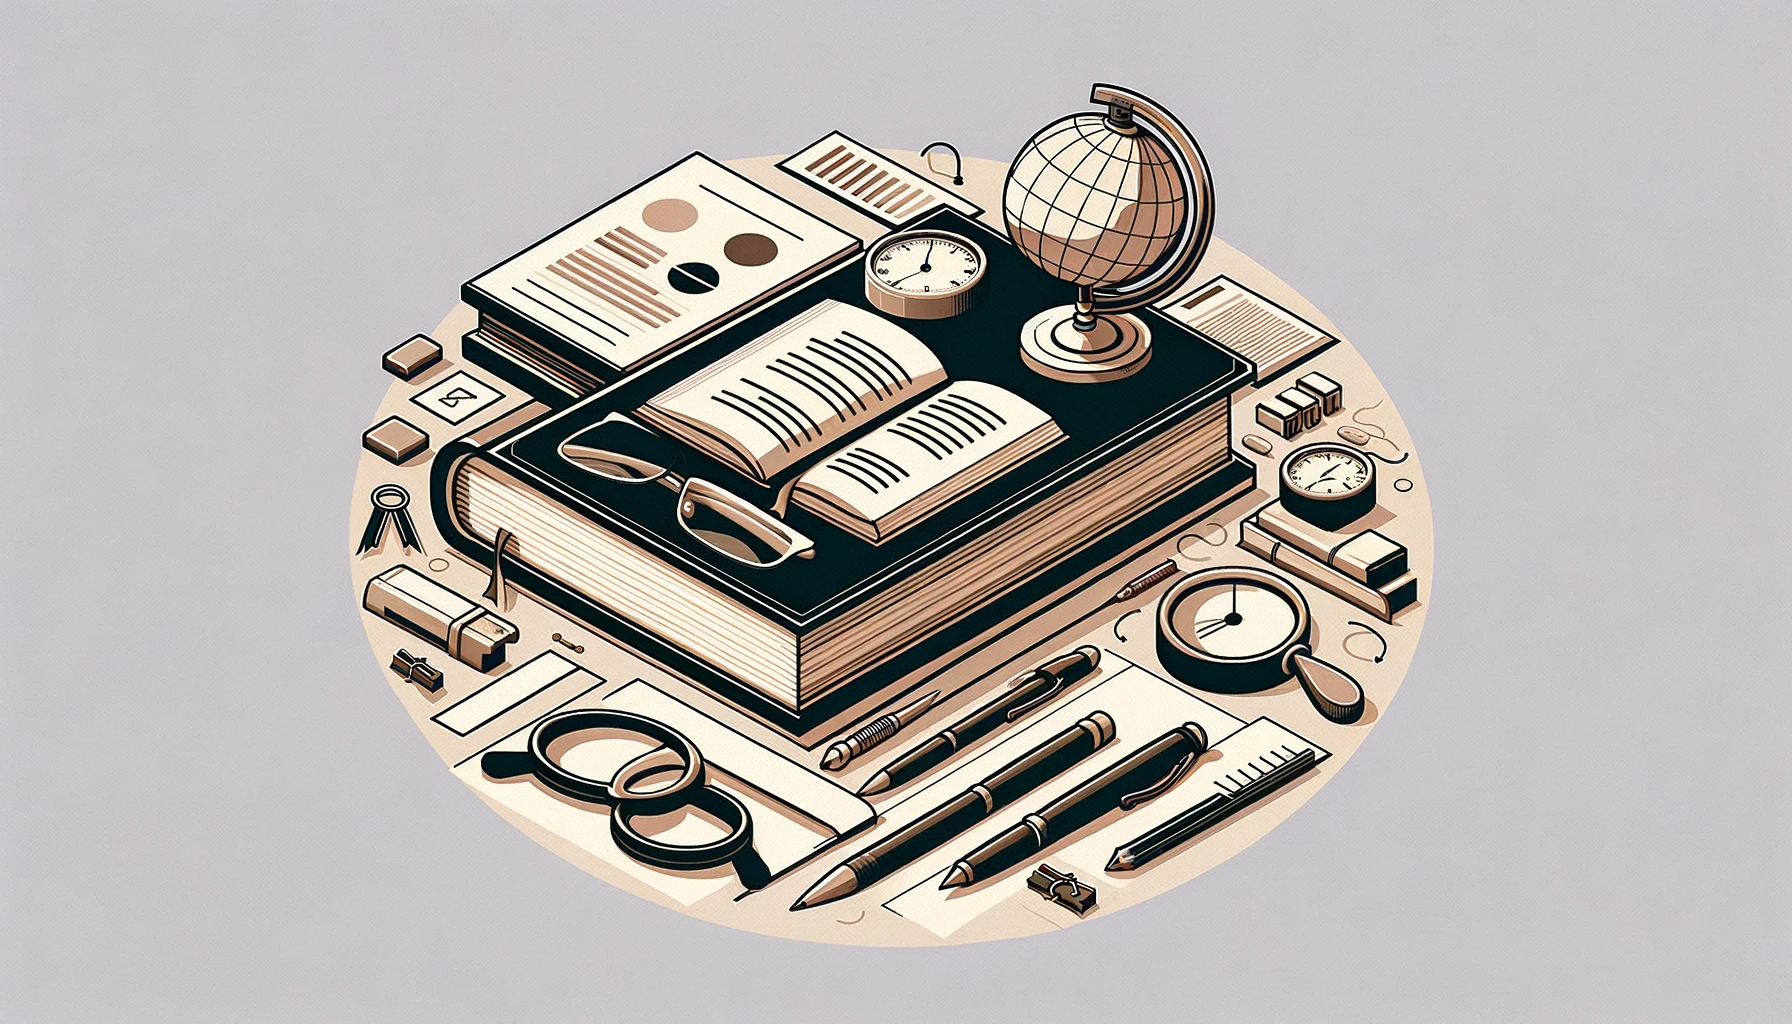
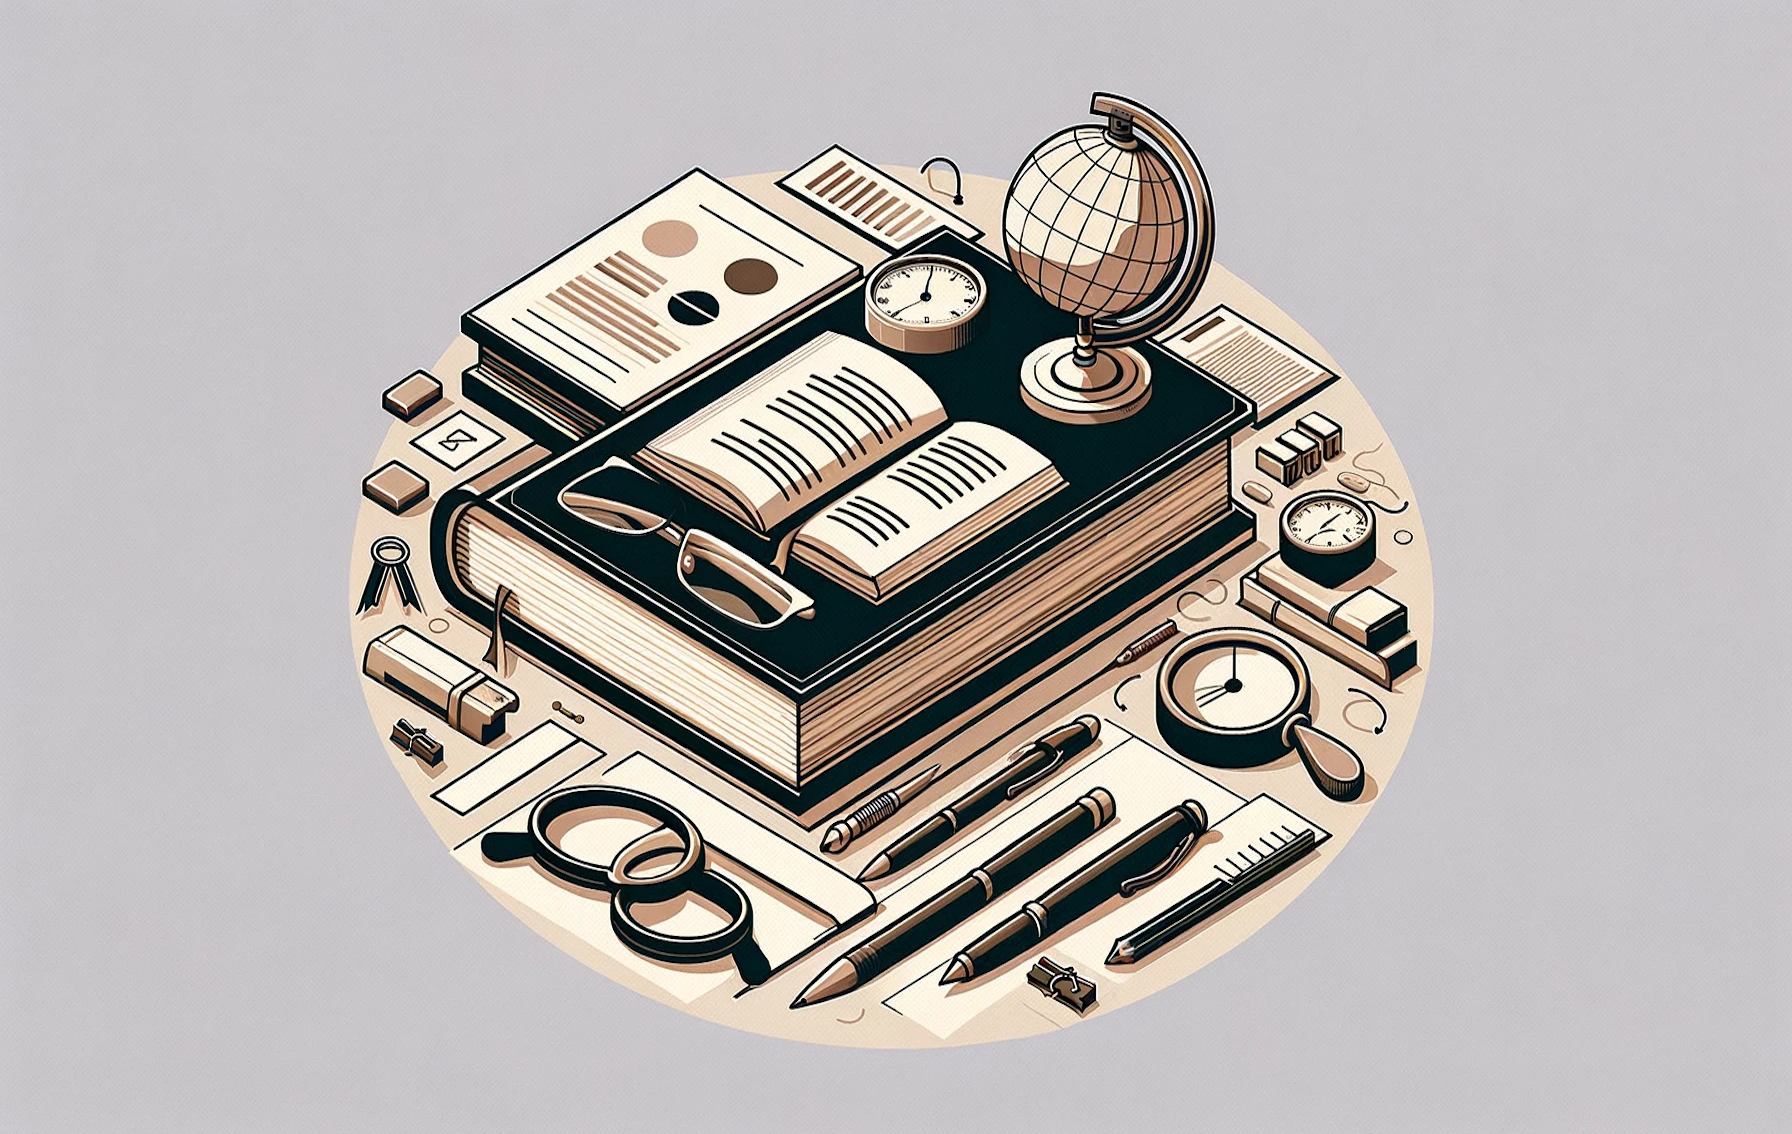
Adjust the color

diff --git a/src/index.css b/src/index.css
@@ -218,13 +218,14 @@ body {
 .image-block {
   display: flex;
   align-items: center;
-  background-color: #f0f0f0; /* Background color */
+  background-color: rgb(202, 199, 202); /* Background color */
   padding: 20px;
 }
 
 .image-wrapper {
   flex: 1; /* Takes up remaining space */
   margin-right: 20px; /* Margin between image and text */
+  
 }
 
 .text-wrapper {
@@ -233,5 +234,12 @@ body {
 
 .text-wrapper p {
   font-size: 16px;
-  color: #333; /* Text color */
+  color: rgb(51, 51, 51); /* Text color */
 }
+
+.custom-image {
+  width: 500px; /* Set the desired width */
+  height: auto; /* Maintain aspect ratio */
+  /* Add any other styles as needed */
+}
+

diff --git a/src/components/Image.js b/src/components/Image.js
@@ -2,11 +2,11 @@ import React from 'react';
 
 const ImageBlock = ({ imageUrl }) => {
   return (
-    <div className="image-block">
-      <div className="image-wrapper">
-        <img src={imageUrl} alt="Image" />
+    <div className='image-block'>
+      <div className='image-wrapper'>
+        <img src={imageUrl} alt='Image' className='custom-image' />
       </div>
-      <div className="text-wrapper">
+      <div className='text-wrapper'>
         <p>text</p>
       </div>
     </div>

diff --git a/src/components/homePage.js b/src/components/homePage.js
@@ -1,10 +1,11 @@
 import React from 'react';
 import Image from './Image';
-
+import mainImage from  '../image/main.png';
 export default function HomePage() {
+  
   return (
     <div>
-      <Image />
+      <Image imageUrl={mainImage} />
     </div>
   );
 }
